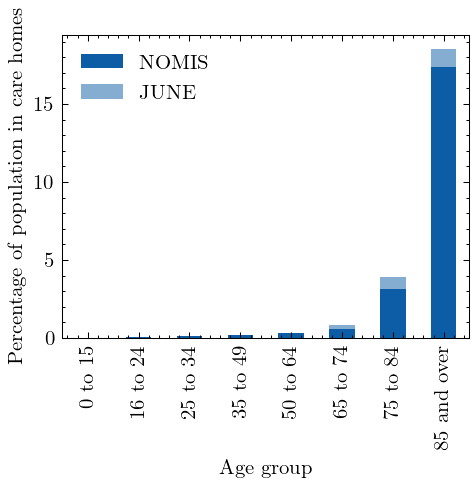
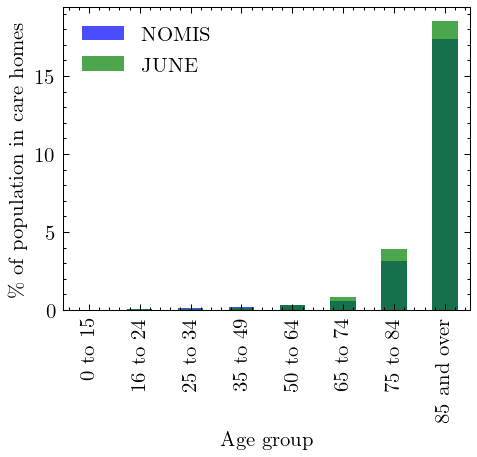
plot updates

diff --git a/june_plots/scripts/households/household_plots.py b/june_plots/scripts/households/household_plots.py
@@ -222,7 +222,7 @@ class HouseholdPlots:
             linewidth=3,
             label="NOMIS"
         )
-        ax[0].hist(age_difference_couples, density=True, label="JUNE", bins=20)
+        ax[0].hist(age_difference_couples, density=True, label="JUNE", bins=20, alpha=0.7)
         ax[0].set_xlim(-15, 15)
         ax[0].legend()
 
@@ -232,7 +232,7 @@ class HouseholdPlots:
             linewidth=3,
             label="NOMIS"
         )
-        ax[1].hist(age_differences_first_kid, density=True, label="JUNE", bins=30)
+        ax[1].hist(age_differences_first_kid, density=True, label="JUNE", bins=30, alpha=0.7)
         ax[1].set_xlabel("Parent - first child\nage difference")
         ax[1].set_xlim(15, 65)
         ax[1].legend()
@@ -243,7 +243,7 @@ class HouseholdPlots:
             linewidth=3,
             label="NOMIS"
         )
-        ax[2].hist(age_differences_second_kid, density=True, label="JUNE", bins=30)
+        ax[2].hist(age_differences_second_kid, density=True, label="JUNE", bins=30, alpha=0.7)
         ax[2].set_xlabel("Parent - second child\nage difference")
         ax[2].set_xlim(15, 66)
         ax[2].legend()

diff --git a/june_plots/scripts/master_plotter.py b/june_plots/scripts/master_plotter.py
@@ -285,16 +285,15 @@ class Plotter:
 
     def plot_all(self):
         print ("Plotting the world")
-        #self.plot_commute()
-        #self.plot_companies()
+        self.plot_commute()
+        self.plot_companies()
         self.plot_households()
-        #self.plot_leisure()
-        #self.plot_policies()
+        self.plot_leisure()
+        self.plot_policies()
         self.plot_care_homes()
         self.plot_schools()
-        #self.plot_contact_matrices()
+        self.plot_contact_matrices()
         self.plot_life_expectancy()
-
 
 if __name__ == "__main__":
 

diff --git a/june_plots/scripts/care_homes/care_home_plots.py b/june_plots/scripts/care_homes/care_home_plots.py
@@ -89,8 +89,8 @@ class CareHomePlots:
             )
 
         f, ax = plt.subplots()
-        self.percent["Persons"].plot.bar(ax=ax, label="NOMIS")
-        june_percent["Persons"].plot.bar(ax=ax, alpha=0.5, label="JUNE")
+        self.percent["Persons"].plot.bar(ax=ax, label="NOMIS", color='blue', alpha=0.7)
+        june_percent["Persons"].plot.bar(ax=ax, label="JUNE", color='green', alpha=0.7)
         ax.set_ylabel("\% of population in care homes")
         ax.legend()
         return ax
